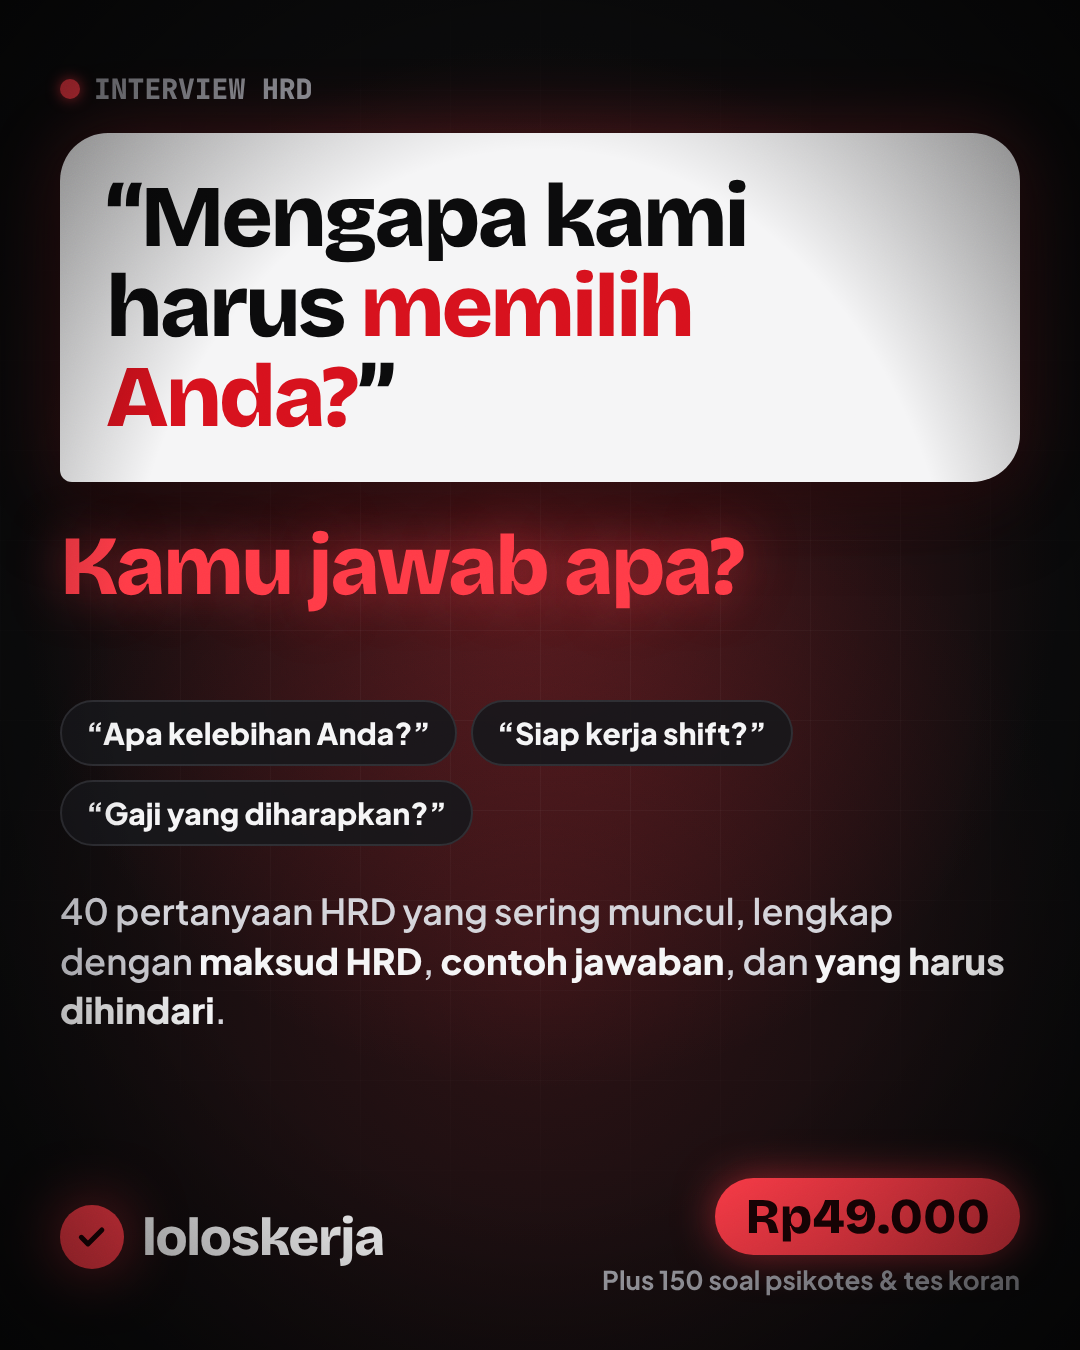
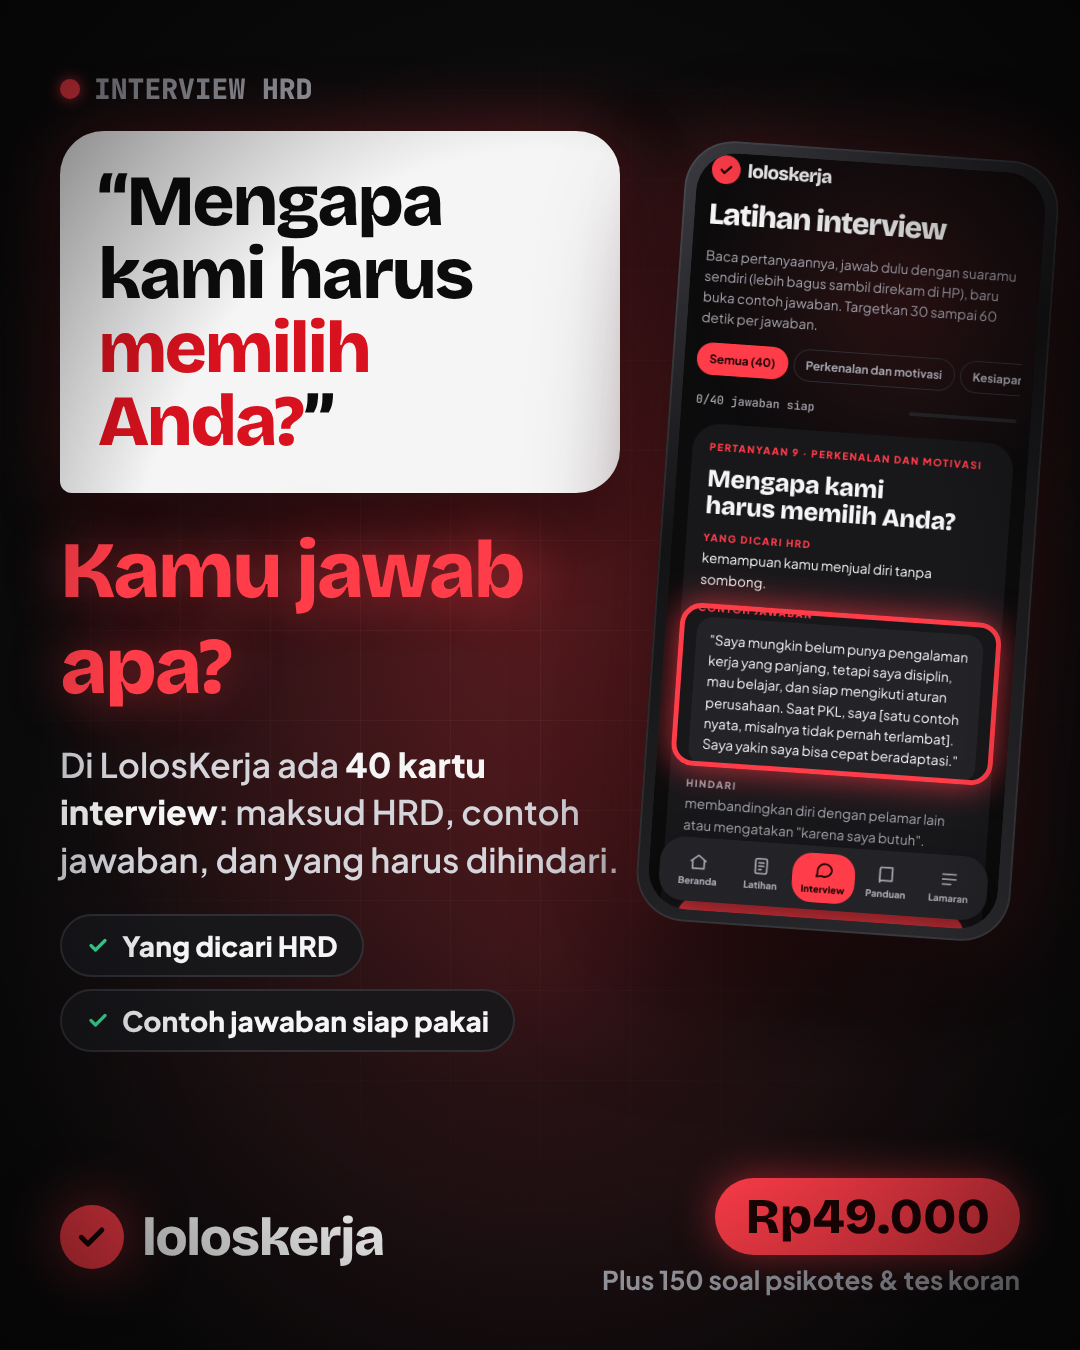
Use real app screens in LolosKerja image ads 2-4
Claude-Session: https://claude.ai/code/session_01B2gArgPM3FDfvLtfdSKAxy

Changed region(s): [[0.0306, 0.0933, 0.9472, 0.7778], [0.0611, 0.0933, 0.0917, 0.1244]]

diff --git a/loloskerja-ads/src/stills/Ads.tsx b/loloskerja-ads/src/stills/Ads.tsx
@@ -101,121 +101,124 @@ export const AdPanggilan: React.FC = () => (
   </Frame>
 );
 
+/** Red highlight box drawn on top of a phone screenshot (percentages of the screen) */
+const Mark: React.FC<{ left: number; top: number; width: number; height: number; color?: string }> = ({
+  left,
+  top,
+  width,
+  height,
+  color = C.red,
+}) => (
+  <div
+    style={{
+      position: "absolute",
+      left: `${left}%`,
+      top: `${top}%`,
+      width: `${width}%`,
+      height: `${height}%`,
+      borderRadius: 22,
+      border: `5px solid ${color}`,
+      boxShadow: `0 0 34px ${color === C.red ? "rgba(255,59,71,0.75)" : "rgba(61,220,151,0.6)"}`,
+    }}
+  />
+);
+
 /* 2 — Mengapa kami harus memilih Anda? */
 export const AdHRD: React.FC = () => (
   <Frame>
-    <div style={{ position: "absolute", left: 60, right: 60, top: 70 }}>
+    <div style={{ position: "absolute", left: 60, top: 70, width: 560 }}>
       <div style={{ display: "flex", alignItems: "center", gap: 14, fontFamily: mono, fontWeight: 800, fontSize: 28, color: C.mute }}>
         <span style={{ width: 20, height: 20, borderRadius: "50%", background: C.red, boxShadow: "0 0 14px rgba(255,59,71,0.9)" }} />
         INTERVIEW HRD
       </div>
       <div
         style={{
-          marginTop: 26,
-          padding: "40px 46px",
-          borderRadius: "48px 48px 48px 12px",
+          marginTop: 24,
+          padding: "34px 38px",
+          borderRadius: "44px 44px 44px 12px",
           background: C.fg,
           color: C.bg,
           fontFamily: display,
           fontWeight: 800,
-          fontSize: 88,
+          fontSize: 72,
           lineHeight: 1.02,
-          letterSpacing: -3,
+          letterSpacing: -2.5,
           boxShadow: "0 30px 70px rgba(0,0,0,0.6), 0 0 70px rgba(255,59,71,0.3)",
         }}
       >
         “Mengapa kami harus <span style={{ color: "#D7111D" }}>memilih Anda?</span>”
       </div>
-      <div style={{ fontFamily: display, fontWeight: 800, fontSize: 84, letterSpacing: -2.5, color: C.red, marginTop: 34, textShadow: "0 0 50px rgba(255,59,71,0.5)" }}>
+      <div style={{ fontFamily: display, fontWeight: 800, fontSize: 80, letterSpacing: -2.5, color: C.red, marginTop: 30, textShadow: "0 0 50px rgba(255,59,71,0.5)" }}>
         Kamu jawab apa?
       </div>
+      <div style={{ fontFamily: body, fontWeight: 600, fontSize: 34, lineHeight: 1.4, color: "#d4d4da", marginTop: 26 }}>
+        Di LolosKerja ada <b style={{ color: C.fg }}>40 kartu interview</b>: maksud HRD, contoh jawaban, dan yang harus dihindari.
+      </div>
+      <div style={{ display: "flex", flexDirection: "column", gap: 12, marginTop: 30, alignItems: "flex-start" }}>
+        <Pill size={28}>
+          <Check size={24} /> Yang dicari HRD
+        </Pill>
+        <Pill size={28}>
+          <Check size={24} /> Contoh jawaban siap pakai
+        </Pill>
+      </div>
     </div>
-    <div style={{ position: "absolute", left: 60, right: 60, top: 700 }}>
-      <div style={{ display: "flex", flexWrap: "wrap", gap: 14 }}>
-        <Pill size={30}>“Apa kelebihan Anda?”</Pill>
-        <Pill size={30}>“Siap kerja shift?”</Pill>
-        <Pill size={30}>“Gaji yang diharapkan?”</Pill>
-      </div>
-      <div style={{ fontFamily: body, fontWeight: 600, fontSize: 36, lineHeight: 1.38, color: "#d4d4da", marginTop: 40 }}>
-        40 pertanyaan HRD yang sering muncul, lengkap dengan <b style={{ color: C.fg }}>maksud HRD</b>, <b style={{ color: C.fg }}>contoh jawaban</b>, dan{" "}
-        <b style={{ color: C.fg }}>yang harus dihindari</b>.
-      </div>
+    <div style={{ position: "absolute", right: 46, top: 150, rotate: "4deg" }}>
+      <Phone src="shots/22-interview-jawaban.png" width={350}>
+        <Mark left={4} top={59.5} width={92} height={21.5} />
+      </Phone>
     </div>
     <Footer note="Plus 150 soal psikotes & tes koran" />
   </Frame>
 );
 
-/* 3 — Ngebut di awal tes koran */
-const BARS = [19, 18, 18, 16, 14, 12, 10, 8, 7, 6];
-export const AdNgebut: React.FC = () => {
-  const W = 880;
-  const H = 360;
-  const bw = 58;
-  const gap = (W - bw * BARS.length) / (BARS.length - 1);
-  return (
-    <Frame>
-      <div style={{ position: "absolute", left: 70, right: 70, top: 80 }}>
-        <Eyebrow>TES KORAN · KRAEPELIN</Eyebrow>
-        <div style={{ fontFamily: display, fontWeight: 800, fontSize: 104, lineHeight: 0.98, letterSpacing: -3.5, color: C.fg, marginTop: 14 }}>
-          <span style={{ fontStyle: "italic" }}>Ngebut</span> di awal justru bisa bikin <span style={{ color: C.red }}>gugur.</span>
-        </div>
+/* 3 — Ngebut di awal tes koran (real result screen from the app) */
+export const AdNgebut: React.FC = () => (
+  <Frame>
+    <div style={{ position: "absolute", left: 70, right: 70, top: 80 }}>
+      <Eyebrow>TES KORAN · KRAEPELIN</Eyebrow>
+      <div style={{ fontFamily: display, fontWeight: 800, fontSize: 96, lineHeight: 0.98, letterSpacing: -3.5, color: C.fg, marginTop: 14 }}>
+        <span style={{ fontStyle: "italic" }}>Ngebut</span> di awal justru bisa bikin <span style={{ color: C.red }}>gugur.</span>
+      </div>
+    </div>
+    <div style={{ position: "absolute", left: 70, top: 470, width: 540 }}>
+      <div style={{ fontFamily: display, fontWeight: 800, fontSize: 52, lineHeight: 1.08, letterSpacing: -1.5, color: C.fg }}>
+        Penilai lihat grafik <span style={{ color: C.red, whiteSpace: "nowrap" }}>per lajur.</span>
+      </div>
+      <div style={{ display: "flex", flexDirection: "column", gap: 14, marginTop: 30, alignItems: "flex-start" }}>
+        <Pill size={30}>Tinggi di awal</Pill>
+        <Pill size={30} red>
+          Anjlok di akhir ↓
+        </Pill>
       </div>
       <div
         style={{
-          position: "absolute",
-          left: 60,
-          right: 60,
-          top: 470,
-          height: 560,
-          borderRadius: 44,
-          background: C.surface,
-          border: `2px solid ${C.line}`,
-          padding: "34px 40px",
+          marginTop: 34,
+          padding: "24px 28px",
+          borderRadius: 26,
+          background: "rgba(23,23,26,0.95)",
+          borderLeft: `8px solid ${C.red}`,
+          fontFamily: body,
+          fontWeight: 600,
+          fontSize: 30,
+          lineHeight: 1.38,
+          color: "#d4d4da",
         }}
       >
-        <div style={{ display: "flex", justifyContent: "space-between", fontFamily: body, fontWeight: 800, fontSize: 26, letterSpacing: 3, color: C.mute }}>
-          <span>GRAFIK KERJA PER LAJUR</span>
-          <span style={{ color: C.red }}>anjlok di akhir ↓</span>
-        </div>
-        <div style={{ position: "relative", width: W, height: H, marginTop: 40 }}>
-          {BARS.map((v, i) => (
-            <div
-              key={i}
-              style={{
-                position: "absolute",
-                left: i * (bw + gap),
-                bottom: 0,
-                width: bw,
-                height: (v / 20) * H,
-                borderRadius: "14px 14px 4px 4px",
-                background: i < 3 ? C.fg : i >= 7 ? C.red : "#5a5a62",
-                boxShadow: i >= 7 ? "0 0 26px rgba(255,59,71,0.7)" : "none",
-              }}
-            />
-          ))}
-          <svg width={W} height={H} style={{ position: "absolute", inset: 0, overflow: "visible" }}>
-            <path
-              d={`M ${bw / 2} ${H - (19 / 20) * H - 24} L ${W - bw / 2} ${H - (6 / 20) * H - 24}`}
-              stroke={C.red}
-              strokeWidth={8}
-              strokeLinecap="round"
-            />
-            <path d={`M ${bw / 2} ${H - (14 / 20) * H} L ${W - bw / 2} ${H - (14 / 20) * H}`} stroke={C.ok} strokeWidth={5} strokeDasharray="20 14" />
-          </svg>
-          <div style={{ position: "absolute", right: 0, top: H - (14 / 20) * H - 52, fontFamily: body, fontWeight: 800, fontSize: 28, color: C.ok }}>
-            yang dicari: rata
-          </div>
-        </div>
-        <div style={{ fontFamily: body, fontWeight: 600, fontSize: 32, color: "#d4d4da", marginTop: 28 }}>
-          Latih ritme per lajur sampai grafikmu stabil.
-        </div>
+        <div style={{ fontWeight: 800, fontSize: 24, letterSpacing: 3, color: C.red, marginBottom: 6 }}>CATATAN DARI APP</div>
+        Jumlahmu turun di lajur akhir. Latih ketahanan supaya ritmenya bertahan sampai selesai.
       </div>
-      <Footer note="Simulasi tes koran + 150 soal psikotes" />
-    </Frame>
-  );
-};
+    </div>
+    <div style={{ position: "absolute", right: 50, top: 410, rotate: "5deg" }}>
+      <Phone src="shots/20-koran-hasil-drop.png" width={320}>
+        <Mark left={6} top={50} width={90} height={17} />
+      </Phone>
+    </div>
+    <Footer note="Simulasi tes koran + 150 soal psikotes" />
+  </Frame>
+);
 
-/* 4 — Challenge deret */
+/* 4 — Challenge deret (real question from the app) */
 export const AdDeret: React.FC = () => (
   <Frame>
     <div style={{ position: "absolute", left: 70, right: 70, top: 80 }}>
@@ -224,13 +227,14 @@ export const AdDeret: React.FC = () => (
         Bisa jawab dalam <span style={{ color: C.red, whiteSpace: "nowrap" }}>5 detik?</span>
       </div>
     </div>
-    <div style={{ position: "absolute", left: 70, right: 70, top: 330, display: "grid", gridTemplateColumns: "repeat(3, 1fr)", gap: 22 }}>
+    <div style={{ position: "absolute", left: 70, right: 70, top: 330, display: "flex", gap: 14 }}>
       {["2", "4", "8", "16", "32", "?"].map((v) => (
         <div
           key={v}
           style={{
-            height: 150,
-            borderRadius: 32,
+            flex: 1,
+            height: 120,
+            borderRadius: 26,
             background: v === "?" ? "rgba(255,59,71,0.12)" : C.surface,
             border: `4px solid ${v === "?" ? C.red : C.line}`,
             display: "flex",
@@ -238,52 +242,35 @@ export const AdDeret: React.FC = () => (
             justifyContent: "center",
             fontFamily: display,
             fontWeight: 800,
-            fontSize: 108,
+            fontSize: 72,
             color: v === "?" ? C.red : C.fg,
-            boxShadow: v === "?" ? "0 0 50px rgba(255,59,71,0.45)" : "none",
+            boxShadow: v === "?" ? "0 0 40px rgba(255,59,71,0.45)" : "none",
           }}
         >
           {v}
         </div>
       ))}
     </div>
-    <div style={{ position: "absolute", left: 70, right: 70, top: 700, display: "flex", gap: 18 }}>
-      {[
-        ["A", "61"],
-        ["B", "128"],
-        ["C", "64"],
-        ["D", "60"],
-      ].map(([k, v]) => (
-        <div
-          key={k}
-          style={{
-            flex: 1,
-            height: 110,
-            borderRadius: 28,
-            background: C.surface,
-            border: `3px solid ${C.line}`,
-            display: "flex",
-            alignItems: "center",
-            justifyContent: "center",
-            gap: 14,
-            fontFamily: body,
-            fontWeight: 800,
-            fontSize: 44,
-            color: C.fg,
-          }}
-        >
-          <span style={{ fontSize: 30, color: C.mute }}>{k}</span>
-          {v}
-        </div>
-      ))}
+    <div style={{ position: "absolute", left: 70, top: 540, width: 520 }}>
+      <div style={{ fontFamily: display, fontWeight: 800, fontSize: 60, lineHeight: 1.05, letterSpacing: -2, color: C.fg }}>
+        A, B, C, D, atau E?
+      </div>
+      <div style={{ fontFamily: display, fontWeight: 800, fontSize: 48, lineHeight: 1.1, letterSpacing: -1.5, color: C.red, marginTop: 18 }}>
+        Tulis jawabanmu di komentar.
+      </div>
+      <div style={{ fontFamily: body, fontWeight: 600, fontSize: 32, lineHeight: 1.4, color: "#d4d4da", marginTop: 30 }}>
+        Ini soal asli dari app. Ada <b style={{ color: C.fg }}>150 soal</b> kayak gini, lengkap dengan <b style={{ color: C.fg }}>pembahasan</b>.
+      </div>
+      <div style={{ display: "flex", flexDirection: "column", gap: 12, marginTop: 28, alignItems: "flex-start" }}>
+        <Pill size={28}>
+          <Check size={24} /> Ada simulasi bertimer
+        </Pill>
+      </div>
     </div>
-    <div style={{ position: "absolute", left: 70, right: 70, top: 870, textAlign: "center" }}>
-      <div style={{ fontFamily: display, fontWeight: 800, fontSize: 56, color: C.fg, letterSpacing: -1.5 }}>
-        Tulis jawabanmu di komentar
-      </div>
-      <div style={{ fontFamily: body, fontWeight: 600, fontSize: 32, color: C.mute, marginTop: 14 }}>
-        150 soal kayak gini + pembahasan ada di LolosKerja.
-      </div>
+    <div style={{ position: "absolute", right: 50, top: 480, rotate: "5deg" }}>
+      <Phone src="shots/21-soal-deret.png" width={295}>
+        <Mark left={6} top={24} width={88} height={8.5} />
+      </Phone>
     </div>
     <Footer />
   </Frame>
